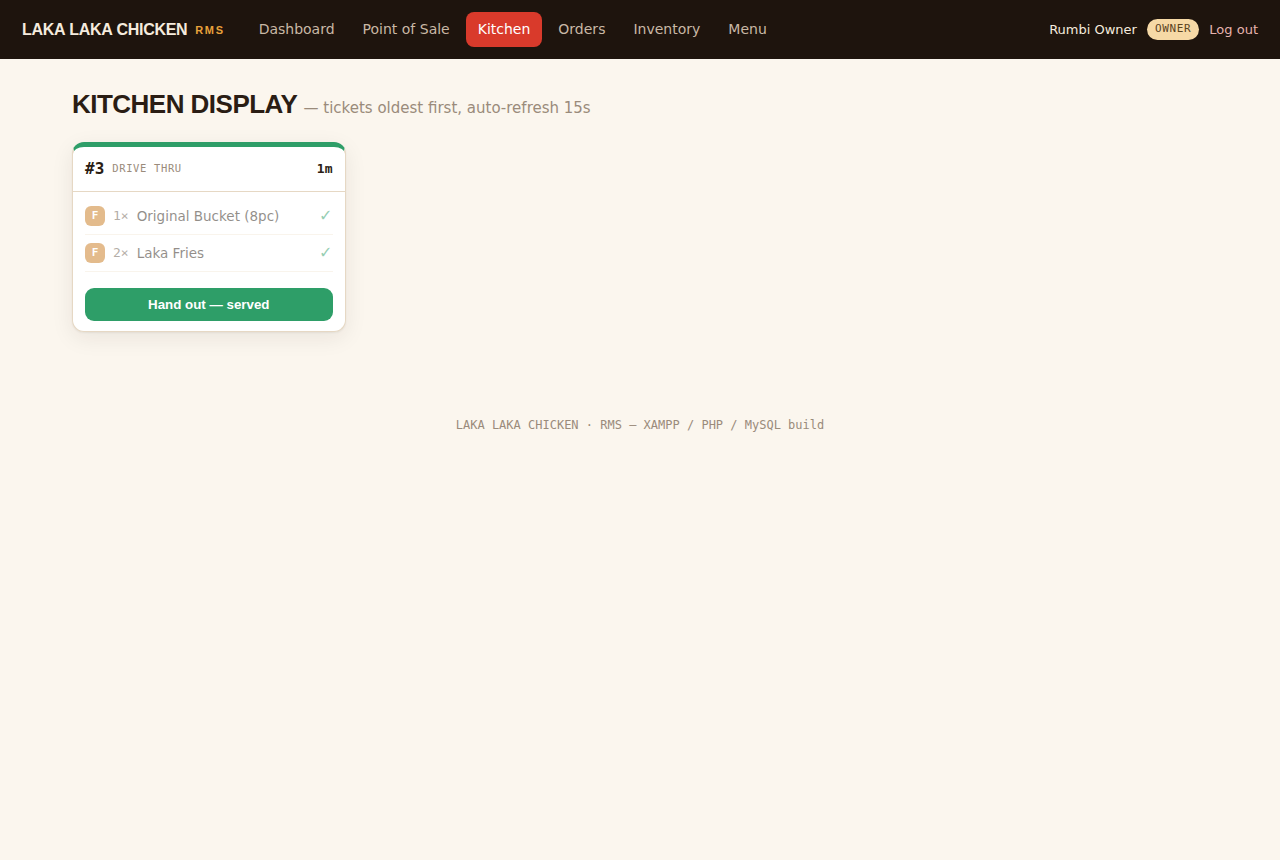
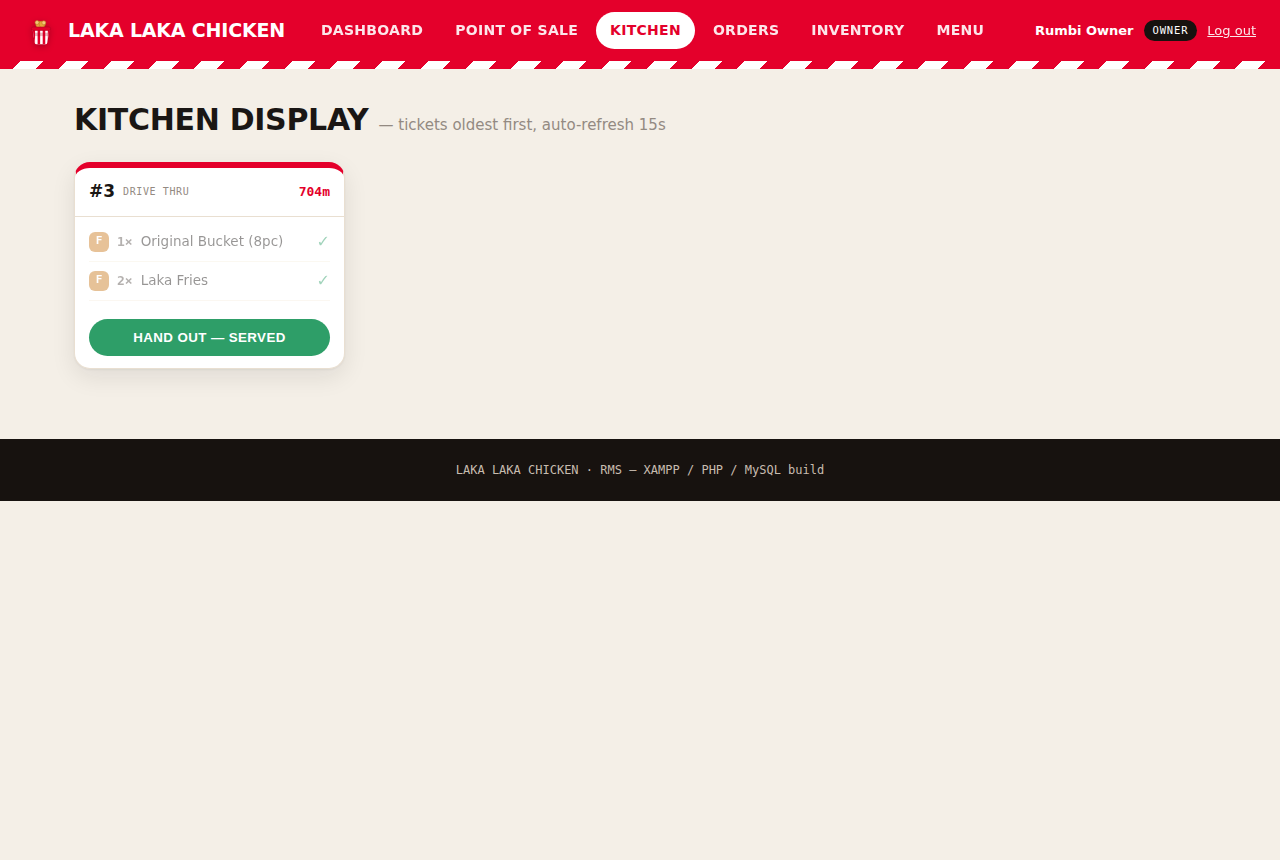
Restyle LAKA LAKA CHICKEN app with bold red-and-white fast-food theme
Reworked the UI to a bold fast-food storefront look: red top nav with
white active pill, red-and-white bucket stripe accents, chunky uppercase
headings, rounded red pill buttons, white product cards, black footer.

- New original SVG food illustrations (bucket, wings, burger, fries,
  drink, combo, default chicken) under assets/food/
- menu_icon() helper maps each menu item to an illustration by keyword
- POS tiles rebuilt as product cards with image, name, price and Add pill
- Bucket logo in the top bar and on the login hero (red striped backdrop)
- Full stylesheet rewrite around a red/white/gold palette
- Refreshed screenshots

Own branding and artwork only — no third-party logos or copyrighted assets.

Claude-Session: https://claude.ai/code/session_01Jx98DwKThd4TrCXGv6oVky

Changed region(s): [[0.0, 0.0, 1.0, 0.4535], [0.0, 0.4837, 1.0, 0.6047]]

diff --git a/laka-pos/assets/style.css b/laka-pos/assets/style.css
@@ -1,180 +1,208 @@
-/* LAKA LAKA CHICKEN — RMS  ·  POS stylesheet */
+/* LAKA LAKA CHICKEN — RMS  ·  bold red-and-white fast-food theme */
 :root{
-  --ground:#FBF6EE; --surface:#FFFFFF; --surface-2:#F4EADB; --line:#E6D8C4;
-  --ink:#2A1D14; --ink-soft:#6B5D4F; --muted:#9A8B7B;
-  --red:#D93A2B; --red-deep:#B22B1F; --gold:#E9A13B; --gold-soft:#F6D9A6;
-  --green:#2E9E68; --amber:#C9791C;
+  --red:#E4002B; --red-deep:#B10021; --red-dark:#8E001B;
+  --ink:#1A1614; --ink-soft:#5A524E; --muted:#938A82;
+  --ground:#F4EFE7; --surface:#FFFFFF; --cream:#F7EFE1; --line:#E9DFD1;
+  --gold:#F0B429; --green:#2E9E68;
+  --black:#17120F;
   --mono:ui-monospace,"SF Mono",Menlo,Consolas,monospace;
-  --sans:system-ui,-apple-system,"Segoe UI",Roboto,Arial,sans-serif;
-  --display:"Arial Black","Helvetica Neue",Arial,sans-serif;
-  --shadow:0 1px 2px rgba(42,29,20,.06),0 6px 22px rgba(42,29,20,.08);
+  --sans:system-ui,-apple-system,"Segoe UI",Roboto,Helvetica,Arial,sans-serif;
+  --display:"Arial Black","Arial Bold",system-ui,Arial,sans-serif;
+  --shadow:0 1px 2px rgba(26,22,20,.05),0 8px 24px rgba(26,22,20,.09);
+  --stripe:repeating-linear-gradient(-45deg,var(--red) 0 16px,#fff 16px 32px);
 }
 *{box-sizing:border-box}
 body{margin:0;background:var(--ground);color:var(--ink);font-family:var(--sans);line-height:1.5}
 a{color:var(--red-deep);text-decoration:none}
 h1,h2{margin:0}
+img{display:block}
 
 /* ---------- top bar ---------- */
-.topbar{display:flex;align-items:center;gap:22px;background:#1E140D;color:#F5EBDD;
-  padding:12px 22px;position:sticky;top:0;z-index:20}
-.brand{font-family:var(--display);font-weight:900;letter-spacing:-.02em;font-size:16px;text-transform:uppercase}
-.brand span{color:var(--gold);margin-left:8px;font-size:11px;letter-spacing:.15em;vertical-align:middle}
+.topbar{display:flex;align-items:center;gap:22px;background:var(--red);color:#fff;
+  padding:12px 24px;position:sticky;top:0;z-index:20}
+.brand{display:flex;align-items:center;gap:10px}
+.brand-logo{filter:drop-shadow(0 2px 3px rgba(0,0,0,.25))}
+.brand-word{font-family:var(--display);font-weight:900;letter-spacing:-.01em;font-size:19px;
+  text-transform:uppercase;color:#fff;line-height:1}
 .mainnav{display:flex;gap:4px;flex-wrap:wrap}
-.mainnav a{color:#C9B8A5;font-size:14px;padding:7px 12px;border-radius:8px}
-.mainnav a:hover{background:rgba(255,255,255,.08);color:#fff}
-.mainnav a.on{background:var(--red);color:#fff}
+.mainnav a{color:#fff;font-weight:700;font-size:14px;padding:8px 14px;border-radius:999px;
+  text-transform:uppercase;letter-spacing:.02em;opacity:.9}
+.mainnav a:hover{background:rgba(255,255,255,.16);opacity:1}
+.mainnav a.on{background:#fff;color:var(--red);opacity:1}
 .who{margin-left:auto;display:flex;align-items:center;gap:10px;font-size:13px}
-.who .uname{color:#F5EBDD}
-.who .role{font-family:var(--mono);font-size:11px;text-transform:uppercase;letter-spacing:.06em;
-  background:var(--gold-soft);color:#5A431F;padding:2px 8px;border-radius:999px}
-.who .logout{color:#E7B3AD}
-.page{max-width:1180px;margin:0 auto;padding:26px 22px 60px}
-.foot{text-align:center;color:var(--muted);font-family:var(--mono);font-size:12px;padding:24px}
+.who .uname{color:#fff;font-weight:600}
+.who .role{font-family:var(--mono);font-size:10.5px;text-transform:uppercase;letter-spacing:.08em;
+  background:var(--black);color:#fff;padding:3px 9px;border-radius:999px}
+.who .logout{color:#fff;text-decoration:underline;opacity:.9}
+.stripe{height:8px;background:var(--stripe)}
 
-.ph{font-family:var(--display);font-weight:900;text-transform:uppercase;letter-spacing:-.02em;
-  font-size:26px;margin-bottom:18px}
+.page{max-width:1180px;margin:0 auto;padding:28px 24px 70px}
+.foot{text-align:center;color:#C7BCAF;background:var(--black);font-family:var(--mono);font-size:12px;padding:22px}
+
+.ph{font-family:var(--display);font-weight:900;text-transform:uppercase;letter-spacing:-.01em;
+  font-size:30px;margin-bottom:20px;color:var(--ink)}
 .ph .sub{font-family:var(--sans);font-weight:400;text-transform:none;letter-spacing:0;
   font-size:15px;color:var(--muted)}
-.empty{color:var(--muted);padding:30px 0;font-size:17px}
+.empty{color:var(--muted);padding:34px 0;font-size:17px}
 .empty.sm{padding:10px 0;font-size:14px}
 .hint{color:var(--muted);font-size:13px;margin-top:14px}
 
 /* ---------- flash ---------- */
-.flash{padding:12px 16px;border-radius:10px;margin-bottom:16px;font-size:14.5px;border:1px solid}
-.flash.ok{background:#E7F5EE;border-color:#B6E0CB;color:#1B6B45}
-.flash.bad{background:#FBE7E4;border-color:#F0C4BD;color:#9B2417}
+.flash{padding:13px 16px;border-radius:12px;margin-bottom:18px;font-size:14.5px;border:1px solid;font-weight:600}
+.flash.ok{background:#E7F6EE;border-color:#B6E2CB;color:#1B6B45}
+.flash.bad{background:#FCE7E5;border-color:#F2C2BC;color:#9B1B16}
 
 /* ---------- login ---------- */
-.login-body{min-height:100vh;margin:0;display:grid;place-items:center;
-  background:radial-gradient(120% 100% at 50% -20%,#3a2413,#1a110b)}
-.login-card{background:var(--surface);border-radius:18px;padding:34px 30px;width:min(360px,92vw);
-  box-shadow:0 24px 60px rgba(0,0,0,.4)}
-.login-brand{font-family:var(--display);font-weight:900;text-transform:uppercase;font-size:34px;
-  line-height:.95;letter-spacing:-.02em;color:var(--red);text-align:center}
-.login-brand span{display:block;font-size:12px;letter-spacing:.2em;color:var(--gold);margin-top:8px}
-.login-card form{display:flex;flex-direction:column;gap:14px;margin-top:24px}
-.login-card label{display:flex;flex-direction:column;gap:6px;font-size:13px;color:var(--ink-soft)}
-.login-card input{padding:11px 12px;border:1px solid var(--line);border-radius:10px;font-size:15px;background:var(--ground)}
-.login-card button{margin-top:4px;background:var(--red);color:#fff;border:0;padding:12px;border-radius:10px;
-  font-size:15px;font-weight:700;cursor:pointer}
+.login-body{min-height:100vh;margin:0;display:grid;place-items:center;position:relative;
+  background:var(--red);overflow:hidden}
+.login-body::before{content:"";position:absolute;inset:0;opacity:.14;background:var(--stripe)}
+.login-card{position:relative;background:var(--surface);border-radius:20px;padding:34px 30px 30px;
+  width:min(380px,92vw);box-shadow:0 30px 70px rgba(0,0,0,.45);text-align:center}
+.login-logo{margin:-64px auto 6px;filter:drop-shadow(0 6px 10px rgba(0,0,0,.3))}
+.login-brand{font-family:var(--display);font-weight:900;text-transform:uppercase;font-size:36px;
+  line-height:.92;letter-spacing:-.01em;color:var(--red)}
+.login-brand span{display:block;font-family:var(--sans);font-weight:700;font-size:12px;letter-spacing:.14em;
+  color:var(--gold);margin-top:10px;text-transform:uppercase}
+.login-card form{display:flex;flex-direction:column;gap:14px;margin-top:24px;text-align:left}
+.login-card label{display:flex;flex-direction:column;gap:6px;font-size:12px;color:var(--ink-soft);
+  text-transform:uppercase;letter-spacing:.06em;font-weight:700}
+.login-card input{padding:12px 13px;border:2px solid var(--line);border-radius:11px;font-size:15px;background:var(--ground)}
+.login-card input:focus{border-color:var(--red);outline:none}
+.login-card button{margin-top:6px;background:var(--red);color:#fff;border:0;padding:14px;border-radius:999px;
+  font-size:15px;font-weight:800;cursor:pointer;text-transform:uppercase;letter-spacing:.04em}
 .login-card button:hover{background:var(--red-deep)}
-.login-error{background:#FBE7E4;color:#9B2417;padding:9px 12px;border-radius:8px;font-size:13.5px;margin:14px 0 0}
-.login-hint{margin-top:20px;font-family:var(--mono);font-size:11.5px;color:var(--muted);text-align:center;line-height:1.7}
-.login-hint b{display:block;color:var(--ink-soft);margin-bottom:4px;font-size:11px;letter-spacing:.1em}
+.login-error{background:#FCE7E5;color:#9B1B16;padding:10px 12px;border-radius:9px;font-size:13.5px;margin:16px 0 0;font-weight:600}
+.login-hint{margin-top:22px;font-family:var(--mono);font-size:11.5px;color:var(--muted);line-height:1.7}
+.login-hint b{display:block;color:var(--ink-soft);margin-bottom:4px;font-size:11px;letter-spacing:.1em;text-transform:uppercase}
 
 /* ---------- POS ---------- */
-.pos-grid{display:grid;grid-template-columns:1fr 330px;gap:20px;align-items:start}
-@media(max-width:820px){.pos-grid{grid-template-columns:1fr}}
-.cat{font-family:var(--mono);font-size:12px;letter-spacing:.1em;text-transform:uppercase;
-  color:var(--red-deep);margin:18px 0 10px}
-.tiles{display:grid;grid-template-columns:repeat(auto-fill,minmax(150px,1fr));gap:10px}
-.tile{display:flex;flex-direction:column;gap:4px;text-align:left;background:var(--surface);
-  border:1px solid var(--line);border-radius:12px;padding:12px 13px;cursor:pointer;box-shadow:var(--shadow)}
-.tile:hover{border-color:var(--red);transform:translateY(-1px)}
+.pos-grid{display:grid;grid-template-columns:1fr 340px;gap:22px;align-items:start}
+@media(max-width:840px){.pos-grid{grid-template-columns:1fr}}
+.cat{font-family:var(--display);font-size:15px;letter-spacing:.02em;text-transform:uppercase;
+  color:var(--ink);margin:22px 0 12px;display:flex;align-items:center;gap:10px}
+.cat::after{content:"";flex:1;height:3px;background:var(--stripe);border-radius:2px;opacity:.85}
+.tiles{display:grid;grid-template-columns:repeat(auto-fill,minmax(168px,1fr));gap:14px}
+.tile{display:flex;flex-direction:column;text-align:left;background:var(--surface);
+  border:1px solid var(--line);border-radius:16px;padding:0;cursor:pointer;box-shadow:var(--shadow);
+  overflow:hidden;transition:transform .08s ease,box-shadow .12s ease}
+.tile:hover{transform:translateY(-3px);box-shadow:0 14px 30px rgba(26,22,20,.15);border-color:var(--red)}
 .tile:active{transform:translateY(0)}
-.tile-name{font-weight:700;font-size:14px}
-.tile-meta{font-family:var(--mono);font-size:10.5px;text-transform:uppercase;letter-spacing:.06em;color:var(--muted)}
-.tile-price{font-family:var(--mono);color:var(--red-deep);font-weight:700;margin-top:2px}
-.cart-col{position:sticky;top:78px;background:var(--surface);border:1px solid var(--line);
-  border-radius:14px;padding:16px;box-shadow:var(--shadow)}
-.cart-h{font-size:16px;margin-bottom:10px}
-.cart-lines{min-height:60px;border-bottom:1px dashed var(--line);padding-bottom:10px}
-.cart-empty{color:var(--muted);font-size:13.5px;text-align:center;padding:16px 0}
-.cl{display:flex;justify-content:space-between;align-items:center;gap:8px;padding:7px 0}
+.tile-img{background:radial-gradient(120% 90% at 50% 15%,#fff, var(--cream));display:grid;place-items:center;
+  padding:14px 0 8px}
+.tile-img img{width:86px;height:86px}
+.tile-body{padding:4px 14px 0}
+.tile-name{display:block;font-weight:800;font-size:14.5px;line-height:1.2}
+.tile-meta{display:block;font-family:var(--mono);font-size:10px;text-transform:uppercase;letter-spacing:.08em;
+  color:var(--muted);margin-top:3px}
+.tile-foot{display:flex;align-items:center;justify-content:space-between;padding:10px 14px 13px;margin-top:8px}
+.tile-price{font-family:var(--display);color:var(--ink);font-size:17px}
+.tile-add{background:var(--red);color:#fff;font-size:11px;font-weight:800;text-transform:uppercase;
+  letter-spacing:.04em;padding:6px 11px;border-radius:999px}
+.tile:hover .tile-add{background:var(--red-deep)}
+
+.cart-col{position:sticky;top:88px;background:var(--surface);border:1px solid var(--line);
+  border-radius:18px;padding:18px;box-shadow:var(--shadow)}
+.cart-h{font-family:var(--display);font-size:17px;margin-bottom:12px;text-transform:uppercase}
+.cart-lines{min-height:60px;border-bottom:2px dashed var(--line);padding-bottom:10px}
+.cart-empty{color:var(--muted);font-size:13.5px;text-align:center;padding:18px 0}
+.cl{display:flex;justify-content:space-between;align-items:center;gap:8px;padding:8px 0}
 .cl-main b{display:block;font-size:13.5px}
 .cl-main span{font-family:var(--mono);font-size:11px;color:var(--muted)}
 .cl-qty{display:flex;align-items:center;gap:8px}
-.cl-qty button{width:26px;height:26px;border:1px solid var(--line);background:var(--surface-2);
-  border-radius:7px;cursor:pointer;font-size:15px;line-height:1}
-.cl-qty span{font-family:var(--mono);min-width:16px;text-align:center}
-.cart-tot{padding:12px 0;font-size:14px}
+.cl-qty button{width:28px;height:28px;border:1px solid var(--line);background:var(--ground);
+  border-radius:8px;cursor:pointer;font-size:16px;line-height:1;color:var(--red-deep);font-weight:700}
+.cl-qty button:hover{background:var(--red);color:#fff;border-color:var(--red)}
+.cl-qty span{font-family:var(--mono);min-width:16px;text-align:center;font-weight:700}
+.cart-tot{padding:14px 0;font-size:14px}
 .cart-tot>div{display:flex;justify-content:space-between;padding:3px 0;color:var(--ink-soft)}
 .cart-tot b{font-family:var(--mono)}
-.cart-tot .grand{color:var(--ink);font-size:18px;font-weight:700;border-top:1px solid var(--line);
-  margin-top:6px;padding-top:10px}
-.fld{display:flex;flex-direction:column;gap:5px;font-size:12px;color:var(--ink-soft);margin-top:10px}
-.fld select{padding:9px 10px;border:1px solid var(--line);border-radius:9px;font-size:14px;background:var(--ground)}
-.charge{margin-top:16px;width:100%;background:var(--red);color:#fff;border:0;padding:14px;border-radius:11px;
-  font-size:16px;font-weight:800;cursor:pointer;text-transform:uppercase;letter-spacing:.03em}
+.cart-tot .grand{color:var(--ink);font-size:20px;font-family:var(--display);border-top:2px solid var(--line);
+  margin-top:8px;padding-top:12px}
+.fld{display:flex;flex-direction:column;gap:5px;font-size:11px;color:var(--ink-soft);margin-top:12px;
+  text-transform:uppercase;letter-spacing:.06em;font-weight:700}
+.fld select{padding:10px 11px;border:2px solid var(--line);border-radius:11px;font-size:14px;background:var(--ground);
+  text-transform:none;font-weight:400}
+.charge{margin-top:18px;width:100%;background:var(--red);color:#fff;border:0;padding:15px;border-radius:999px;
+  font-size:16px;font-weight:900;cursor:pointer;text-transform:uppercase;letter-spacing:.04em}
 .charge:hover{background:var(--red-deep)}
 .charge:disabled{background:var(--muted);cursor:not-allowed}
 
 /* ---------- Kitchen Display ---------- */
-.kds{display:grid;grid-template-columns:repeat(auto-fill,minmax(230px,1fr));gap:14px}
-.ticket{background:var(--surface);border:1px solid var(--line);border-radius:12px;overflow:hidden;
-  box-shadow:var(--shadow);border-top:5px solid var(--green)}
+.kds{display:grid;grid-template-columns:repeat(auto-fill,minmax(238px,1fr));gap:16px}
+.ticket{background:var(--surface);border:1px solid var(--line);border-radius:16px;overflow:hidden;
+  box-shadow:var(--shadow);border-top:6px solid var(--green)}
 .ticket.warn{border-top-color:var(--gold)}
 .ticket.late{border-top-color:var(--red)}
-.tk-head{display:flex;align-items:center;gap:8px;padding:10px 12px;border-bottom:1px solid var(--line)}
-.tk-head b{font-family:var(--mono);font-size:16px}
-.tk-head .ch{font-family:var(--mono);font-size:10.5px;text-transform:uppercase;letter-spacing:.06em;
-  color:var(--muted)}
+.tk-head{display:flex;align-items:center;gap:8px;padding:11px 14px;border-bottom:1px solid var(--line)}
+.tk-head b{font-family:var(--display);font-size:17px}
+.tk-head .ch{font-family:var(--mono);font-size:10px;text-transform:uppercase;letter-spacing:.06em;color:var(--muted)}
 .tk-head .age{margin-left:auto;font-family:var(--mono);font-size:13px;font-weight:700}
 .ticket.late .age{color:var(--red)}
-.tk-items{padding:6px 12px}
-.tk-line{display:flex;align-items:center;gap:8px;padding:6px 0;margin:0;border-bottom:1px solid var(--surface-2)}
-.tk-line.done{opacity:.5}
+.tk-items{padding:6px 14px}
+.tk-line{display:flex;align-items:center;gap:8px;padding:7px 0;margin:0;border-bottom:1px solid var(--cream)}
+.tk-line.done{opacity:.45}
 .tk-line .st{width:20px;height:20px;border-radius:6px;display:grid;place-items:center;font-size:11px;
   font-weight:700;color:#fff;text-transform:uppercase;font-family:var(--mono)}
-.st-fryer{background:#C9791C}.st-grill{background:#B22B1F}.st-drinks{background:#3B6FB0}.st-assembly{background:#2E9E68}
-.tk-line .qn{font-family:var(--mono);font-size:13px;color:var(--ink-soft)}
+.st-fryer{background:#C9791C}.st-grill{background:#B10021}.st-drinks{background:#3B6FB0}.st-assembly{background:#2E9E68}
+.tk-line .qn{font-family:var(--mono);font-size:13px;color:var(--ink-soft);font-weight:700}
 .tk-line .nm{font-size:13.5px;flex:1}
-.tk-line .bump{border:1px solid var(--line);background:var(--surface-2);border-radius:7px;
-  padding:3px 9px;font-size:11px;font-family:var(--mono);cursor:pointer;text-transform:uppercase}
-.tk-line .bump:hover{background:var(--gold);border-color:var(--gold)}
-.tk-line .rdy{color:var(--green);font-weight:700}
-.tk-serve{padding:10px 12px}
-.serve{width:100%;background:var(--green);color:#fff;border:0;padding:9px;border-radius:9px;
-  font-weight:700;cursor:pointer}
-.serve:hover{filter:brightness(.95)}
+.tk-line .bump{border:0;background:var(--ink);color:#fff;border-radius:999px;padding:4px 11px;font-size:10.5px;
+  font-family:var(--sans);font-weight:800;cursor:pointer;text-transform:uppercase;letter-spacing:.04em}
+.tk-line .bump:hover{background:var(--red)}
+.tk-line .rdy{color:var(--green);font-weight:800}
+.tk-serve{padding:12px 14px}
+.serve{width:100%;background:var(--green);color:#fff;border:0;padding:11px;border-radius:999px;
+  font-weight:800;cursor:pointer;text-transform:uppercase;letter-spacing:.03em}
+.serve:hover{filter:brightness(.94)}
 
 /* ---------- KPIs / dashboard ---------- */
-.kpis{display:grid;grid-template-columns:repeat(5,1fr);gap:12px;margin-bottom:20px}
-@media(max-width:820px){.kpis{grid-template-columns:repeat(2,1fr)}}
-.kpi{background:var(--surface);border:1px solid var(--line);border-radius:12px;padding:14px 16px;box-shadow:var(--shadow)}
-.kpi span{font-family:var(--mono);font-size:11px;text-transform:uppercase;letter-spacing:.08em;color:var(--muted)}
-.kpi b{display:block;font-size:24px;margin-top:6px;font-variant-numeric:tabular-nums}
-.kpi.accent{background:#2A1D14;color:#fff}
-.kpi.accent span{color:var(--gold)}
-.cols2{display:grid;grid-template-columns:1fr 1fr;gap:16px;margin-bottom:16px}
+.kpis{display:grid;grid-template-columns:repeat(5,1fr);gap:14px;margin-bottom:22px}
+@media(max-width:840px){.kpis{grid-template-columns:repeat(2,1fr)}}
+.kpi{background:var(--surface);border:1px solid var(--line);border-radius:16px;padding:16px 18px;box-shadow:var(--shadow)}
+.kpi span{font-family:var(--mono);font-size:10.5px;text-transform:uppercase;letter-spacing:.08em;color:var(--muted)}
+.kpi b{display:block;font-family:var(--display);font-size:26px;margin-top:8px;font-variant-numeric:tabular-nums}
+.kpi.accent{background:var(--red);color:#fff;border-color:var(--red)}
+.kpi.accent span{color:#FFD9DE}
+.cols2{display:grid;grid-template-columns:1fr 1fr;gap:18px;margin-bottom:18px}
 @media(max-width:720px){.cols2{grid-template-columns:1fr}}
-.panel{background:var(--surface);border:1px solid var(--line);border-radius:12px;padding:16px 18px;box-shadow:var(--shadow)}
-.panel h2{font-size:16px;margin-bottom:10px}
-.panel.alert{border-color:#F0C4BD;background:#FEF4F2}
+.panel{background:var(--surface);border:1px solid var(--line);border-radius:16px;padding:18px 20px;box-shadow:var(--shadow)}
+.panel h2{font-family:var(--display);font-size:16px;margin-bottom:12px;text-transform:uppercase}
+.panel.alert{border-color:#F2C2BC;background:#FEF5F3}
 table.mini{width:100%;border-collapse:collapse;font-size:14px}
-table.mini td{padding:6px 0;border-bottom:1px solid var(--surface-2)}
-.lowgrid{display:grid;grid-template-columns:repeat(auto-fill,minmax(180px,1fr));gap:10px}
-.lowitem{background:var(--ground);border:1px solid var(--line);border-radius:9px;padding:10px 12px}
+table.mini td{padding:7px 0;border-bottom:1px solid var(--cream)}
+.lowgrid{display:grid;grid-template-columns:repeat(auto-fill,minmax(180px,1fr));gap:12px}
+.lowitem{background:var(--ground);border:1px solid var(--line);border-radius:11px;padding:11px 13px}
 .lowitem b{display:block;font-size:14px}
 .lowitem span{font-family:var(--mono);font-size:12px;color:var(--red-deep)}
 .lowitem em{color:var(--muted);font-style:normal}
 
 /* ---------- tables ---------- */
-.table-wrap{overflow-x:auto;border:1px solid var(--line);border-radius:12px;background:var(--surface);box-shadow:var(--shadow)}
+.table-wrap{overflow-x:auto;border:1px solid var(--line);border-radius:16px;background:var(--surface);box-shadow:var(--shadow)}
 .grid-table{width:100%;border-collapse:collapse;font-size:14px;min-width:640px}
-.grid-table th{font-family:var(--mono);font-size:11px;text-transform:uppercase;letter-spacing:.06em;
-  color:var(--muted);text-align:left;padding:11px 14px;background:var(--surface-2);border-bottom:1px solid var(--line)}
-.grid-table td{padding:11px 14px;border-bottom:1px solid var(--surface-2);vertical-align:middle}
+.grid-table th{font-family:var(--mono);font-size:10.5px;text-transform:uppercase;letter-spacing:.06em;
+  color:var(--muted);text-align:left;padding:12px 15px;background:var(--cream);border-bottom:1px solid var(--line)}
+.grid-table td{padding:12px 15px;border-bottom:1px solid var(--cream);vertical-align:middle}
 .grid-table tr:last-child td{border-bottom:0}
 .grid-table .r,th.r{text-align:right}
 .mono{font-family:var(--mono);font-variant-numeric:tabular-nums}
 .items{color:var(--ink-soft);font-size:13px;max-width:280px}
-.row-low{background:#FEF4F2}.row-off{opacity:.5}
+.row-low{background:#FEF5F3}.row-off{opacity:.5}
 
-.badge{display:inline-block;font-family:var(--mono);font-size:10.5px;text-transform:uppercase;
-  letter-spacing:.05em;padding:3px 9px;border-radius:999px;border:1px solid transparent}
+.badge{display:inline-block;font-family:var(--mono);font-size:10px;text-transform:uppercase;
+  letter-spacing:.05em;padding:4px 10px;border-radius:999px;border:1px solid transparent;font-weight:700}
 .b-placed{background:#FCEFD6;color:#8a5a12}
-.b-cooking{background:#FBE3DF;color:#9B2417}
+.b-cooking{background:#FCE1DD;color:#9B1B16}
 .b-ready{background:#DDEFE4;color:#1B6B45}
-.b-served{background:#E7F5EE;color:#1B6B45}
+.b-served{background:#E7F6EE;color:#1B6B45}
 .b-void{background:#EEE;color:#777}
-.btn-badge{cursor:pointer}
+.btn-badge{cursor:pointer;border:0}
 
 .restock,.price-form{display:flex;gap:6px;align-items:center}
-.restock input,.price-form input{width:80px;padding:6px 8px;border:1px solid var(--line);border-radius:7px;
+.restock input,.price-form input{width:80px;padding:7px 9px;border:2px solid var(--line);border-radius:9px;
   font-family:var(--mono);font-size:13px}
-.restock button,.price-form button{border:1px solid var(--line);background:var(--surface-2);border-radius:7px;
-  padding:6px 10px;font-size:12px;cursor:pointer}
-.restock button:hover,.price-form button:hover{background:var(--gold);border-color:var(--gold)}
+.restock input:focus,.price-form input:focus{border-color:var(--red);outline:none}
+.restock button,.price-form button{border:0;background:var(--ink);color:#fff;border-radius:999px;
+  padding:7px 13px;font-size:12px;cursor:pointer;font-weight:700;text-transform:uppercase;letter-spacing:.03em}
+.restock button:hover,.price-form button:hover{background:var(--red)}
 
-:focus-visible{outline:2px solid var(--red);outline-offset:2px}
+:focus-visible{outline:3px solid var(--gold);outline-offset:2px}

diff --git a/laka-pos/pos.php b/laka-pos/pos.php
@@ -119,9 +119,15 @@ require __DIR__ . '/includes/header.php';
                   data-name="<?= e($it['name']) ?>"
                   data-price="<?= (float) $it['price'] ?>"
                   data-station="<?= e($it['station']) ?>">
-            <span class="tile-name"><?= e($it['name']) ?></span>
-            <span class="tile-meta"><?= e($it['station']) ?></span>
-            <span class="tile-price">$<?= money((float) $it['price']) ?></span>
+            <span class="tile-img"><img src="assets/food/<?= menu_icon($it['name']) ?>.svg" alt="" width="86" height="86"></span>
+            <span class="tile-body">
+              <span class="tile-name"><?= e($it['name']) ?></span>
+              <span class="tile-meta"><?= e($it['station']) ?></span>
+            </span>
+            <span class="tile-foot">
+              <span class="tile-price">$<?= money((float) $it['price']) ?></span>
+              <span class="tile-add">Add +</span>
+            </span>
           </button>
         <?php endforeach; ?>
       </div>

diff --git a/laka-pos/config/db.php b/laka-pos/config/db.php
@@ -44,3 +44,18 @@ function money(float $n): string
 {
     return number_format($n, 2);
 }
+
+/** Pick a food illustration for a menu item by keywords in its name. */
+function menu_icon(string $name): string
+{
+    $n = strtolower($name);
+    return match (true) {
+        str_contains($n, 'bucket')                     => 'bucket',
+        str_contains($n, 'wing')                       => 'wings',
+        str_contains($n, 'burger') || str_contains($n, 'zinger') => 'burger',
+        str_contains($n, 'fries') || str_contains($n, 'chips')   => 'fries',
+        str_contains($n, 'drink') || str_contains($n, 'soda') || str_contains($n, 'cola') => 'drink',
+        str_contains($n, 'combo') || str_contains($n, 'meal')    => 'combo',
+        default                                        => 'chicken',
+    };
+}

diff --git a/laka-pos/includes/header.php b/laka-pos/includes/header.php
@@ -24,7 +24,10 @@ $nav = [
 </head>
 <body>
 <header class="topbar">
-  <div class="brand">LAKA&nbsp;LAKA&nbsp;CHICKEN<span>RMS</span></div>
+  <div class="brand">
+    <img src="assets/food/bucket.svg" alt="" class="brand-logo" width="34" height="34">
+    <span class="brand-word">LAKA&nbsp;LAKA&nbsp;CHICKEN</span>
+  </div>
   <nav class="mainnav">
     <?php foreach ($nav as $file => [$label, $roles]): ?>
       <?php if ($u && in_array($u['role'], $roles, true)): ?>
@@ -38,4 +41,5 @@ $nav = [
     <a class="logout" href="logout.php">Log out</a>
   </div>
 </header>
+<div class="stripe"></div>
 <main class="page">

diff --git a/laka-pos/index.php b/laka-pos/index.php
@@ -27,7 +27,8 @@ if ($_SERVER['REQUEST_METHOD'] === 'POST') {
 </head>
 <body class="login-body">
 <div class="login-card">
-  <div class="login-brand">LAKA&nbsp;LAKA<br>CHICKEN<span>RMS · AI</span></div>
+  <img src="assets/food/bucket.svg" alt="" class="login-logo" width="76" height="76">
+  <div class="login-brand">LAKA&nbsp;LAKA<br>CHICKEN<span>Crispy · Juicy · Laka</span></div>
   <?php if ($error): ?><p class="login-error"><?= e($error) ?></p><?php endif; ?>
   <form method="post" autocomplete="off">
     <label>Username
